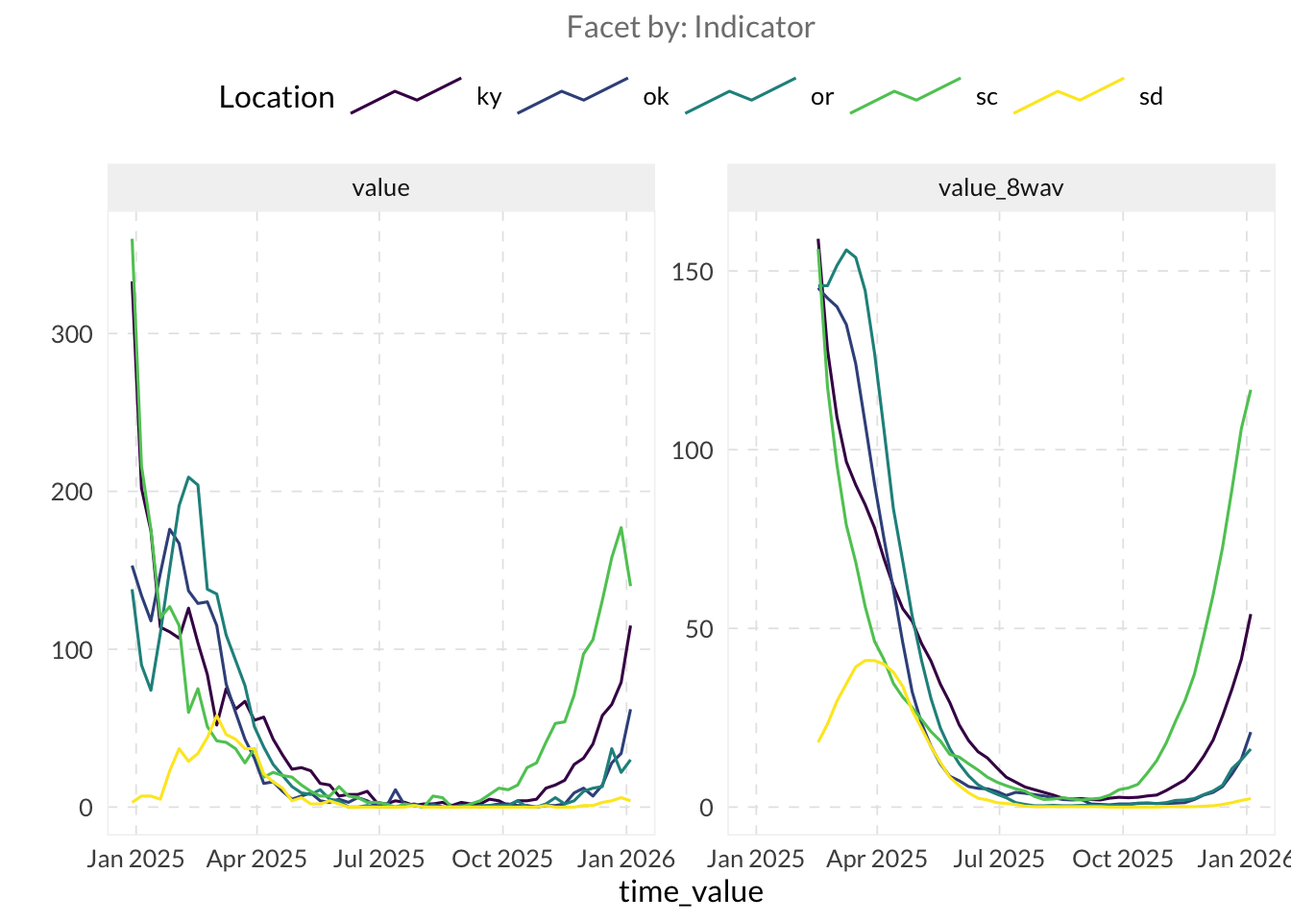
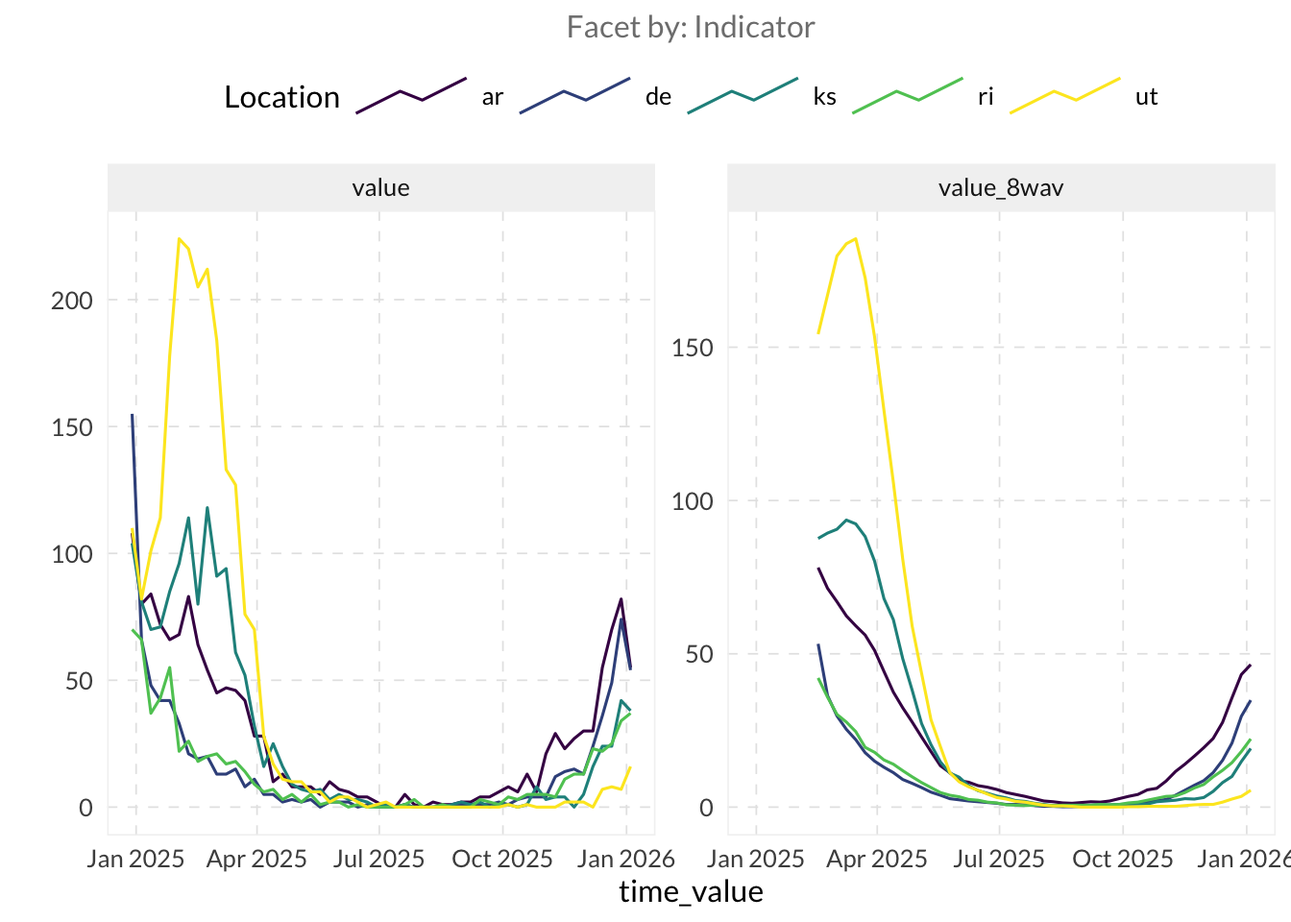
Built site for gh-pages

diff --git a/scripts/miniproject_2_solutions.html b/scripts/miniproject_2_solutions.html
@@ -257,8 +257,8 @@ pre > code.sourceCode > span > a:first-child::before { text-decoration: underlin
 * geo_type  = state
 * time_type = week
 * as_of     = 2026-04-19
-Latency (lag between last available observation and epi_df's as_of, by time series):
-* lag  = 15–23 weeks (see summary() for per-signal details)
+Latency (time between last available observation and epi_df's as_of, by time series):
+* latency  = 15–23 weeks (see summary() for per-signal details)
 
 # A tibble: 3,024 × 4
    geo_value time_value value issue     
@@ -285,11 +285,11 @@ Time range:
 * min time value              = 2024-12-29 (but some time series start later)
 * max time value              = 2026-01-04 (but some time series end earlier)
 Gaps:
-* explicit (non-lag NAs in 1/56 key combinations, affecting 1 signal)
+* missing values (NAs within the time series in 1/56 key combinations, affecting 1 signal)
 * average rows per time value = 56.00
-Latency (lag between last available time_value and epi_df's as_of, by time series):
-* value: lag 15–23 weeks (max time 2026-01-04); lagging keys: as (!)
-(!): notable latency (lag &gt; 2 weeks; lagging keys)</code></pre>
+Latency (time between last available time_value and epi_df's as_of, by time series):
+* value: latency 15–23 weeks (max time 2026-01-04); lagging keys: as (!)
+(!): notable latency (latency &gt; 2 weeks; lagging keys)</code></pre>
 </div>
 </div>
 <div class="callout callout-style-simple callout-note">
@@ -339,8 +339,8 @@ Latency (lag between last available time_value and epi_df's as_of, by time serie
 * geo_type  = state
 * time_type = week
 * as_of     = 2026-04-19
-Latency (lag between last available observation and epi_df's as_of, by time series):
-* lag across all time series = 15–28 weeks (see summary() for per-signal details)
+Latency (time between last available observation and epi_df's as_of, by time series):
+* latency across all time series = 15–28 weeks (see summary() for per-signal details)
 
 # A tibble: 3,024 × 7
    geo_value time_value value value_3wav value_8wav value_3wmean_center
@@ -402,8 +402,8 @@ Latency (lag between last available observation and epi_df's as_of, by time seri
 </div>
 <div class="code-copy-outer-scaffold"><div class="sourceCode cell-code" id="cb11"><pre class="sourceCode r code-with-copy"><code class="sourceCode r"><span id="cb11-1"><a href="#cb11-1" aria-hidden="true" tabindex="-1"></a><span class="fu">autoplot</span>(edf, value, <span class="at">.interactive =</span> <span class="cn">TRUE</span>, <span class="at">.max_keys =</span> <span class="cn">Inf</span>, <span class="at">.facet_filter =</span> geo_value <span class="sc">%in%</span> <span class="fu">c</span>(<span class="st">"ca"</span>, <span class="st">"mi"</span>, <span class="st">"ny"</span>, <span class="st">"pa"</span>))</span></code></pre></div><button title="Copy to Clipboard" class="code-copy-button"><i class="bi"></i></button></div>
 <div class="cell-output-display">
-<div class="plotly html-widget html-fill-item" id="htmlwidget-ef905eb637ec0189ee14" style="width:100%;height:464px;"></div>
-<script type="application/json" data-for="htmlwidget-ef905eb637ec0189ee14">{"x":{"data":[{"x":[20086,20093,20100,20107,20114,20121,20128,20135,20142,20149,20156,20163,20170,20177,20184,20191,20198,20205,20212,20219,20226,20233,20240,20247,20254,20261,20268,20275,20282,20289,20296,20303,20310,20317,20324,20331,20338,20345,20352,20359,20366,20373,20380,20387,20394,20401,20408,20415,20422,20429,20436,20443,20450,20457],"y":[943,810,769,748,763,723,678,624,535,440,392,348,256,208,157,99,100,68,46,38,33,24,20,16,9,6,12,10,4,20,10,10,10,12,12,10,20,21,9,18,21,26,22,43,38,71,73,96,136,150,191,278,409,407],"text":["time_value: 2024-12-29<br />.response:  943<br />.colours: ca","time_value: 2025-01-05<br />.response:  810<br />.colours: ca","time_value: 2025-01-12<br />.response:  769<br />.colours: ca","time_value: 2025-01-19<br />.response:  748<br />.colours: ca","time_value: 2025-01-26<br />.response:  763<br />.colours: ca","time_value: 2025-02-02<br />.response:  723<br />.colours: ca","time_value: 2025-02-09<br />.response:  678<br />.colours: ca","time_value: 2025-02-16<br />.response:  624<br />.colours: ca","time_value: 2025-02-23<br />.response:  535<br />.colours: ca","time_value: 2025-03-02<br />.response:  440<br />.colours: ca","time_value: 2025-03-09<br />.response:  392<br />.colours: ca","time_value: 2025-03-16<br />.response:  348<br />.colours: ca","time_value: 2025-03-23<br />.response:  256<br />.colours: ca","time_value: 2025-03-30<br />.response:  208<br />.colours: ca","time_value: 2025-04-06<br />.response:  157<br />.colours: ca","time_value: 2025-04-13<br />.response:   99<br />.colours: ca","time_value: 2025-04-20<br />.response:  100<br />.colours: ca","time_value: 2025-04-27<br />.response:   68<br />.colours: ca","time_value: 2025-05-04<br />.response:   46<br />.colours: ca","time_value: 2025-05-11<br />.response:   38<br />.colours: ca","time_value: 2025-05-18<br />.response:   33<br />.colours: ca","time_value: 2025-05-25<br />.response:   24<br />.colours: ca","time_value: 2025-06-01<br />.response:   20<br />.colours: ca","time_value: 2025-06-08<br />.response:   16<br />.colours: ca","time_value: 2025-06-15<br />.response:    9<br />.colours: ca","time_value: 2025-06-22<br />.response:    6<br />.colours: ca","time_value: 2025-06-29<br />.response:   12<br />.colours: ca","time_value: 2025-07-06<br />.response:   10<br />.colours: ca","time_value: 2025-07-13<br />.response:    4<br />.colours: ca","time_value: 2025-07-20<br />.response:   20<br />.colours: ca","time_value: 2025-07-27<br />.response:   10<br />.colours: ca","time_value: 2025-08-03<br />.response:   10<br />.colours: ca","time_value: 2025-08-10<br />.response:   10<br />.colours: ca","time_value: 2025-08-17<br />.response:   12<br />.colours: ca","time_value: 2025-08-24<br />.response:   12<br />.colours: ca","time_value: 2025-08-31<br />.response:   10<br />.colours: ca","time_value: 2025-09-07<br />.response:   20<br />.colours: ca","time_value: 2025-09-14<br />.response:   21<br />.colours: ca","time_value: 2025-09-21<br />.response:    9<br />.colours: ca","time_value: 2025-09-28<br />.response:   18<br />.colours: ca","time_value: 2025-10-05<br />.response:   21<br />.colours: ca","time_value: 2025-10-12<br />.response:   26<br />.colours: ca","time_value: 2025-10-19<br />.response:   22<br />.colours: ca","time_value: 2025-10-26<br />.response:   43<br />.colours: ca","time_value: 2025-11-02<br />.response:   38<br />.colours: ca","time_value: 2025-11-09<br />.response:   71<br />.colours: ca","time_value: 2025-11-16<br />.response:   73<br />.colours: ca","time_value: 2025-11-23<br />.response:   96<br />.colours: ca","time_value: 2025-11-30<br />.response:  136<br />.colours: ca","time_value: 2025-12-07<br />.response:  150<br />.colours: ca","time_value: 2025-12-14<br />.response:  191<br />.colours: ca","time_value: 2025-12-21<br />.response:  278<br />.colours: ca","time_value: 2025-12-28<br />.response:  409<br />.colours: ca","time_value: 2026-01-04<br />.response:  407<br />.colours: ca"],"type":"scatter","mode":"lines","line":{"width":1.8897637795275593,"color":"rgba(68,1,84,1)","dash":"solid"},"hoveron":"points","name":"ca","legendgroup":"ca","showlegend":true,"xaxis":"x","yaxis":"y","hoverinfo":"text","frame":null},{"x":[20086,20093,20100,20107,20114,20121,20128,20135,20142,20149,20156,20163,20170,20177,20184,20191,20198,20205,20212,20219,20226,20233,20240,20247,20254,20261,20268,20275,20282,20289,20296,20303,20310,20317,20324,20331,20338,20345,20352,20359,20366,20373,20380,20387,20394,20401,20408,20415,20422,20429,20436,20443,20450,20457],"y":[552,641,495,512,575,488,467,449,482,404,365,261,241,225,156,174,135,74,32,32,12,15,10,19,4,3,5,2,1,0,0,0,2,1,1,1,1,2,2,2,4,6,7,14,10,9,10,22,25,42,79,92,127,130],"text":["time_value: 2024-12-29<br />.response:  552<br />.colours: mi","time_value: 2025-01-05<br />.response:  641<br />.colours: mi","time_value: 2025-01-12<br />.response:  495<br />.colours: mi","time_value: 2025-01-19<br />.response:  512<br />.colours: mi","time_value: 2025-01-26<br />.response:  575<br />.colours: mi","time_value: 2025-02-02<br />.response:  488<br />.colours: mi","time_value: 2025-02-09<br />.response:  467<br />.colours: mi","time_value: 2025-02-16<br />.response:  449<br />.colours: mi","time_value: 2025-02-23<br />.response:  482<br />.colours: mi","time_value: 2025-03-02<br />.response:  404<br />.colours: mi","time_value: 2025-03-09<br />.response:  365<br />.colours: mi","time_value: 2025-03-16<br />.response:  261<br />.colours: mi","time_value: 2025-03-23<br />.response:  241<br />.colours: mi","time_value: 2025-03-30<br />.response:  225<br />.colours: mi","time_value: 2025-04-06<br />.response:  156<br />.colours: mi","time_value: 2025-04-13<br />.response:  174<br />.colours: mi","time_value: 2025-04-20<br />.response:  135<br />.colours: mi","time_value: 2025-04-27<br />.response:   74<br />.colours: mi","time_value: 2025-05-04<br />.response:   32<br />.colours: mi","time_value: 2025-05-11<br />.response:   32<br />.colours: mi","time_value: 2025-05-18<br />.response:   12<br />.colours: mi","time_value: 2025-05-25<br />.response:   15<br />.colours: mi","time_value: 2025-06-01<br />.response:   10<br />.colours: mi","time_value: 2025-06-08<br />.response:   19<br />.colours: mi","time_value: 2025-06-15<br />.response:    4<br />.colours: mi","time_value: 2025-06-22<br />.response:    3<br />.colours: mi","time_value: 2025-06-29<br />.response:    5<br />.colours: mi","time_value: 2025-07-06<br />.response:    2<br />.colours: mi","time_value: 2025-07-13<br />.response:    1<br />.colours: mi","time_value: 2025-07-20<br />.response:    0<br />.colours: mi","time_value: 2025-07-27<br />.response:    0<br />.colours: mi","time_value: 2025-08-03<br />.response:    0<br />.colours: mi","time_value: 2025-08-10<br />.response:    2<br />.colours: mi","time_value: 2025-08-17<br />.response:    1<br />.colours: mi","time_value: 2025-08-24<br />.response:    1<br />.colours: mi","time_value: 2025-08-31<br />.response:    1<br />.colours: mi","time_value: 2025-09-07<br />.response:    1<br />.colours: mi","time_value: 2025-09-14<br />.response:    2<br />.colours: mi","time_value: 2025-09-21<br />.response:    2<br />.colours: mi","time_value: 2025-09-28<br />.response:    2<br />.colours: mi","time_value: 2025-10-05<br />.response:    4<br />.colours: mi","time_value: 2025-10-12<br />.response:    6<br />.colours: mi","time_value: 2025-10-19<br />.response:    7<br />.colours: mi","time_value: 2025-10-26<br />.response:   14<br />.colours: mi","time_value: 2025-11-02<br />.response:   10<br />.colours: mi","time_value: 2025-11-09<br />.response:    9<br />.colours: mi","time_value: 2025-11-16<br />.response:   10<br />.colours: mi","time_value: 2025-11-23<br />.response:   22<br />.colours: mi","time_value: 2025-11-30<br />.response:   25<br />.colours: mi","time_value: 2025-12-07<br />.response:   42<br />.colours: mi","time_value: 2025-12-14<br />.response:   79<br />.colours: mi","time_value: 2025-12-21<br />.response:   92<br />.colours: mi","time_value: 2025-12-28<br />.response:  127<br />.colours: mi","time_value: 2026-01-04<br />.response:  130<br />.colours: mi"],"type":"scatter","mode":"lines","line":{"width":1.8897637795275593,"color":"rgba(49,104,142,1)","dash":"solid"},"hoveron":"points","name":"mi","legendgroup":"mi","showlegend":true,"xaxis":"x","yaxis":"y","hoverinfo":"text","frame":null},{"x":[20086,20093,20100,20107,20114,20121,20128,20135,20142,20149,20156,20163,20170,20177,20184,20191,20198,20205,20212,20219,20226,20233,20240,20247,20254,20261,20268,20275,20282,20289,20296,20303,20310,20317,20324,20331,20338,20345,20352,20359,20366,20373,20380,20387,20394,20401,20408,20415,20422,20429,20436,20443,20450,20457],"y":[1230,889,716,625,611,522,426,392,295,328,256,240,195,171,120,109,95,60,58,44,38,19,26,23,12,13,16,14,14,16,10,17,12,13,19,27,31,30,45,30,47,37,48,57,66,106,134,207,281,364,390,468,552,549],"text":["time_value: 2024-12-29<br />.response: 1230<br />.colours: ny","time_value: 2025-01-05<br />.response:  889<br />.colours: ny","time_value: 2025-01-12<br />.response:  716<br />.colours: ny","time_value: 2025-01-19<br />.response:  625<br />.colours: ny","time_value: 2025-01-26<br />.response:  611<br />.colours: ny","time_value: 2025-02-02<br />.response:  522<br />.colours: ny","time_value: 2025-02-09<br />.response:  426<br />.colours: ny","time_value: 2025-02-16<br />.response:  392<br />.colours: ny","time_value: 2025-02-23<br />.response:  295<br />.colours: ny","time_value: 2025-03-02<br />.response:  328<br />.colours: ny","time_value: 2025-03-09<br />.response:  256<br />.colours: ny","time_value: 2025-03-16<br />.response:  240<br />.colours: ny","time_value: 2025-03-23<br />.response:  195<br />.colours: ny","time_value: 2025-03-30<br />.response:  171<br />.colours: ny","time_value: 2025-04-06<br />.response:  120<br />.colours: ny","time_value: 2025-04-13<br />.response:  109<br />.colours: ny","time_value: 2025-04-20<br />.response:   95<br />.colours: ny","time_value: 2025-04-27<br />.response:   60<br />.colours: ny","time_value: 2025-05-04<br />.response:   58<br />.colours: ny","time_value: 2025-05-11<br />.response:   44<br />.colours: ny","time_value: 2025-05-18<br />.response:   38<br />.colours: ny","time_value: 2025-05-25<br />.response:   19<br />.colours: ny","time_value: 2025-06-01<br />.response:   26<br />.colours: ny","time_value: 2025-06-08<br />.response:   23<br />.colours: ny","time_value: 2025-06-15<br />.response:   12<br />.colours: ny","time_value: 2025-06-22<br />.response:   13<br />.colours: ny","time_value: 2025-06-29<br />.response:   16<br />.colours: ny","time_value: 2025-07-06<br />.response:   14<br />.colours: ny","time_value: 2025-07-13<br />.response:   14<br />.colours: ny","time_value: 2025-07-20<br />.response:   16<br />.colours: ny","time_value: 2025-07-27<br />.response:   10<br />.colours: ny","time_value: 2025-08-03<br />.response:   17<br />.colours: ny","time_value: 2025-08-10<br />.response:   12<br />.colours: ny","time_value: 2025-08-17<br />.response:   13<br />.colours: ny","time_value: 2025-08-24<br />.response:   19<br />.colours: ny","time_value: 2025-08-31<br />.response:   27<br />.colours: ny","time_value: 2025-09-07<br />.response:   31<br />.colours: ny","time_value: 2025-09-14<br />.response:   30<br />.colours: ny","time_value: 2025-09-21<br />.response:   45<br />.colours: ny","time_value: 2025-09-28<br />.response:   30<br />.colours: ny","time_value: 2025-10-05<br />.response:   47<br />.colours: ny","time_value: 2025-10-12<br />.response:   37<br />.colours: ny","time_value: 2025-10-19<br />.response:   48<br />.colours: ny","time_value: 2025-10-26<br />.response:   57<br />.colours: ny","time_value: 2025-11-02<br />.response:   66<br />.colours: ny","time_value: 2025-11-09<br />.response:  106<br />.colours: ny","time_value: 2025-11-16<br />.response:  134<br />.colours: ny","time_value: 2025-11-23<br />.response:  207<br />.colours: ny","time_value: 2025-11-30<br />.response:  281<br />.colours: ny","time_value: 2025-12-07<br />.response:  364<br />.colours: ny","time_value: 2025-12-14<br />.response:  390<br />.colours: ny","time_value: 2025-12-21<br />.response:  468<br />.colours: ny","time_value: 2025-12-28<br />.response:  552<br />.colours: ny","time_value: 2026-01-04<br />.response:  549<br />.colours: ny"],"type":"scatter","mode":"lines","line":{"width":1.8897637795275593,"color":"rgba(53,183,121,1)","dash":"solid"},"hoveron":"points","name":"ny","legendgroup":"ny","showlegend":true,"xaxis":"x","yaxis":"y","hoverinfo":"text","frame":null},{"x":[20086,20093,20100,20107,20114,20121,20128,20135,20142,20149,20156,20163,20170,20177,20184,20191,20198,20205,20212,20219,20226,20233,20240,20247,20254,20261,20268,20275,20282,20289,20296,20303,20310,20317,20324,20331,20338,20345,20352,20359,20366,20373,20380,20387,20394,20401,20408,20415,20422,20429,20436,20443,20450,20457],"y":[1301,1382,1063,940,865,760,695,596,523,523,433,451,339,257,187,169,142,105,86,77,77,134,63,42,35,41,22,38,38,34,52,33,42,35,32,36,41,33,35,51,41,48,55,48,39,100,89,141,152,230,291,388,493,429],"text":["time_value: 2024-12-29<br />.response: 1301<br />.colours: pa","time_value: 2025-01-05<br />.response: 1382<br />.colours: pa","time_value: 2025-01-12<br />.response: 1063<br />.colours: pa","time_value: 2025-01-19<br />.response:  940<br />.colours: pa","time_value: 2025-01-26<br />.response:  865<br />.colours: pa","time_value: 2025-02-02<br />.response:  760<br />.colours: pa","time_value: 2025-02-09<br />.response:  695<br />.colours: pa","time_value: 2025-02-16<br />.response:  596<br />.colours: pa","time_value: 2025-02-23<br />.response:  523<br />.colours: pa","time_value: 2025-03-02<br />.response:  523<br />.colours: pa","time_value: 2025-03-09<br />.response:  433<br />.colours: pa","time_value: 2025-03-16<br />.response:  451<br />.colours: pa","time_value: 2025-03-23<br />.response:  339<br />.colours: pa","time_value: 2025-03-30<br />.response:  257<br />.colours: pa","time_value: 2025-04-06<br />.response:  187<br />.colours: pa","time_value: 2025-04-13<br />.response:  169<br />.colours: pa","time_value: 2025-04-20<br />.response:  142<br />.colours: pa","time_value: 2025-04-27<br />.response:  105<br />.colours: pa","time_value: 2025-05-04<br />.response:   86<br />.colours: pa","time_value: 2025-05-11<br />.response:   77<br />.colours: pa","time_value: 2025-05-18<br />.response:   77<br />.colours: pa","time_value: 2025-05-25<br />.response:  134<br />.colours: pa","time_value: 2025-06-01<br />.response:   63<br />.colours: pa","time_value: 2025-06-08<br />.response:   42<br />.colours: pa","time_value: 2025-06-15<br />.response:   35<br />.colours: pa","time_value: 2025-06-22<br />.response:   41<br />.colours: pa","time_value: 2025-06-29<br />.response:   22<br />.colours: pa","time_value: 2025-07-06<br />.response:   38<br />.colours: pa","time_value: 2025-07-13<br />.response:   38<br />.colours: pa","time_value: 2025-07-20<br />.response:   34<br />.colours: pa","time_value: 2025-07-27<br />.response:   52<br />.colours: pa","time_value: 2025-08-03<br />.response:   33<br />.colours: pa","time_value: 2025-08-10<br />.response:   42<br />.colours: pa","time_value: 2025-08-17<br />.response:   35<br />.colours: pa","time_value: 2025-08-24<br />.response:   32<br />.colours: pa","time_value: 2025-08-31<br />.response:   36<br />.colours: pa","time_value: 2025-09-07<br />.response:   41<br />.colours: pa","time_value: 2025-09-14<br />.response:   33<br />.colours: pa","time_value: 2025-09-21<br />.response:   35<br />.colours: pa","time_value: 2025-09-28<br />.response:   51<br />.colours: pa","time_value: 2025-10-05<br />.response:   41<br />.colours: pa","time_value: 2025-10-12<br />.response:   48<br />.colours: pa","time_value: 2025-10-19<br />.response:   55<br />.colours: pa","time_value: 2025-10-26<br />.response:   48<br />.colours: pa","time_value: 2025-11-02<br />.response:   39<br />.colours: pa","time_value: 2025-11-09<br />.response:  100<br />.colours: pa","time_value: 2025-11-16<br />.response:   89<br />.colours: pa","time_value: 2025-11-23<br />.response:  141<br />.colours: pa","time_value: 2025-11-30<br />.response:  152<br />.colours: pa","time_value: 2025-12-07<br />.response:  230<br />.colours: pa","time_value: 2025-12-14<br />.response:  291<br />.colours: pa","time_value: 2025-12-21<br />.response:  388<br />.colours: pa","time_value: 2025-12-28<br />.response:  493<br />.colours: pa","time_value: 2026-01-04<br />.response:  429<br />.colours: pa"],"type":"scatter","mode":"lines","line":{"width":1.8897637795275593,"color":"rgba(253,231,37,1)","dash":"solid"},"hoveron":"points","name":"pa","legendgroup":"pa","showlegend":true,"xaxis":"x","yaxis":"y","hoverinfo":"text","frame":null}],"layout":{"margin":{"t":23.970112079701121,"r":7.9701120797011216,"b":40.647571606475722,"l":37.459526774595282},"paper_bgcolor":"rgba(255,255,255,1)","font":{"color":"rgba(0,0,0,1)","family":"Lato","size":15.940224159402241},"xaxis":{"domain":[0,1],"automargin":true,"type":"linear","autorange":false,"range":[20067.450000000001,20475.549999999999],"tickmode":"array","ticktext":["Jan 2025","Apr 2025","Jul 2025","Oct 2025","Jan 2026"],"tickvals":[20089,20179,20270,20362,20454],"categoryorder":"array","categoryarray":["Jan 2025","Apr 2025","Jul 2025","Oct 2025","Jan 2026"],"nticks":null,"ticks":"","tickcolor":null,"ticklen":3.9850560398505603,"tickwidth":0,"showticklabels":true,"tickfont":{"color":"rgba(77,77,77,1)","family":"Lato","size":12.7521793275218},"tickangle":-0,"showline":false,"linecolor":null,"linewidth":0,"showgrid":true,"gridcolor":"rgba(229,229,229,1)","gridwidth":0.39850560398505613,"zeroline":false,"anchor":"y","title":{"text":"time_value","font":{"color":"rgba(0,0,0,1)","family":"Lato","size":15.940224159402241}},"hoverformat":".2f"},"yaxis":{"domain":[0,1],"automargin":true,"type":"linear","autorange":false,"range":[-69.100000000000009,1451.0999999999999],"tickmode":"array","ticktext":["0","500","1000"],"tickvals":[0,500,999.99999999999989],"categoryorder":"array","categoryarray":["0","500","1000"],"nticks":null,"ticks":"","tickcolor":null,"ticklen":3.9850560398505608,"tickwidth":0,"showticklabels":true,"tickfont":{"color":"rgba(77,77,77,1)","family":"Lato","size":12.7521793275218},"tickangle":-0,"showline":false,"linecolor":null,"linewidth":0,"showgrid":true,"gridcolor":"rgba(229,229,229,1)","gridwidth":0.39850560398505613,"zeroline":false,"anchor":"x","title":{"text":"","font":{"color":"rgba(0,0,0,1)","family":"Lato","size":15.940224159402241}},"hoverformat":".2f","fixedrange":true},"shapes":[{"type":"rect","fillcolor":"transparent","line":{"color":"rgba(242,242,242,1)","width":0.72455564360919289,"linetype":"solid"},"yref":"paper","xref":"paper","layer":"below","x0":0,"x1":1,"y0":0,"y1":1}],"showlegend":true,"legend":{"bgcolor":null,"bordercolor":null,"borderwidth":0,"font":{"color":"rgba(0,0,0,1)","family":"Lato","size":12.7521793275218},"orientation":"h","x":0.5,"y":1.02,"xanchor":"center","yanchor":"bottom","title":{"text":"Location","font":{"color":"rgba(0,0,0,1)","family":"Lato","size":15.940224159402241}}},"hovermode":"closest","barmode":"relative"},"config":{"doubleClick":"reset","modeBarButtonsToAdd":["hoverclosest","hovercompare"],"showSendToCloud":false,"modeBarButtonsToRemove":["zoomIn2d","zoomOut2d"]},"source":"A","attrs":{"80565e33b157":{"x":{},"y":{},"colour":{},"type":"scatter"}},"cur_data":"80565e33b157","visdat":{"80565e33b157":["function (y) ","x"]},"highlight":{"on":"plotly_click","persistent":false,"dynamic":false,"selectize":false,"opacityDim":0.20000000000000001,"selected":{"opacity":1},"debounce":0},"shinyEvents":["plotly_hover","plotly_click","plotly_selected","plotly_relayout","plotly_brushed","plotly_brushing","plotly_clickannotation","plotly_doubleclick","plotly_deselect","plotly_afterplot","plotly_sunburstclick"],"base_url":"https://plot.ly"},"evals":[],"jsHooks":[]}</script>
+<div class="plotly html-widget html-fill-item" id="htmlwidget-8643a432b75bf0650cb9" style="width:100%;height:464px;"></div>
+<script type="application/json" data-for="htmlwidget-8643a432b75bf0650cb9">{"x":{"data":[{"x":[20086,20093,20100,20107,20114,20121,20128,20135,20142,20149,20156,20163,20170,20177,20184,20191,20198,20205,20212,20219,20226,20233,20240,20247,20254,20261,20268,20275,20282,20289,20296,20303,20310,20317,20324,20331,20338,20345,20352,20359,20366,20373,20380,20387,20394,20401,20408,20415,20422,20429,20436,20443,20450,20457],"y":[943,810,769,748,763,723,678,624,535,440,392,348,256,208,157,99,100,68,46,38,33,24,20,16,9,6,12,10,4,20,10,10,10,12,12,10,20,21,9,18,21,26,22,43,38,71,73,96,136,150,191,278,409,407],"text":["time_value: 2024-12-29<br />.response:  943<br />.colours: ca","time_value: 2025-01-05<br />.response:  810<br />.colours: ca","time_value: 2025-01-12<br />.response:  769<br />.colours: ca","time_value: 2025-01-19<br />.response:  748<br />.colours: ca","time_value: 2025-01-26<br />.response:  763<br />.colours: ca","time_value: 2025-02-02<br />.response:  723<br />.colours: ca","time_value: 2025-02-09<br />.response:  678<br />.colours: ca","time_value: 2025-02-16<br />.response:  624<br />.colours: ca","time_value: 2025-02-23<br />.response:  535<br />.colours: ca","time_value: 2025-03-02<br />.response:  440<br />.colours: ca","time_value: 2025-03-09<br />.response:  392<br />.colours: ca","time_value: 2025-03-16<br />.response:  348<br />.colours: ca","time_value: 2025-03-23<br />.response:  256<br />.colours: ca","time_value: 2025-03-30<br />.response:  208<br />.colours: ca","time_value: 2025-04-06<br />.response:  157<br />.colours: ca","time_value: 2025-04-13<br />.response:   99<br />.colours: ca","time_value: 2025-04-20<br />.response:  100<br />.colours: ca","time_value: 2025-04-27<br />.response:   68<br />.colours: ca","time_value: 2025-05-04<br />.response:   46<br />.colours: ca","time_value: 2025-05-11<br />.response:   38<br />.colours: ca","time_value: 2025-05-18<br />.response:   33<br />.colours: ca","time_value: 2025-05-25<br />.response:   24<br />.colours: ca","time_value: 2025-06-01<br />.response:   20<br />.colours: ca","time_value: 2025-06-08<br />.response:   16<br />.colours: ca","time_value: 2025-06-15<br />.response:    9<br />.colours: ca","time_value: 2025-06-22<br />.response:    6<br />.colours: ca","time_value: 2025-06-29<br />.response:   12<br />.colours: ca","time_value: 2025-07-06<br />.response:   10<br />.colours: ca","time_value: 2025-07-13<br />.response:    4<br />.colours: ca","time_value: 2025-07-20<br />.response:   20<br />.colours: ca","time_value: 2025-07-27<br />.response:   10<br />.colours: ca","time_value: 2025-08-03<br />.response:   10<br />.colours: ca","time_value: 2025-08-10<br />.response:   10<br />.colours: ca","time_value: 2025-08-17<br />.response:   12<br />.colours: ca","time_value: 2025-08-24<br />.response:   12<br />.colours: ca","time_value: 2025-08-31<br />.response:   10<br />.colours: ca","time_value: 2025-09-07<br />.response:   20<br />.colours: ca","time_value: 2025-09-14<br />.response:   21<br />.colours: ca","time_value: 2025-09-21<br />.response:    9<br />.colours: ca","time_value: 2025-09-28<br />.response:   18<br />.colours: ca","time_value: 2025-10-05<br />.response:   21<br />.colours: ca","time_value: 2025-10-12<br />.response:   26<br />.colours: ca","time_value: 2025-10-19<br />.response:   22<br />.colours: ca","time_value: 2025-10-26<br />.response:   43<br />.colours: ca","time_value: 2025-11-02<br />.response:   38<br />.colours: ca","time_value: 2025-11-09<br />.response:   71<br />.colours: ca","time_value: 2025-11-16<br />.response:   73<br />.colours: ca","time_value: 2025-11-23<br />.response:   96<br />.colours: ca","time_value: 2025-11-30<br />.response:  136<br />.colours: ca","time_value: 2025-12-07<br />.response:  150<br />.colours: ca","time_value: 2025-12-14<br />.response:  191<br />.colours: ca","time_value: 2025-12-21<br />.response:  278<br />.colours: ca","time_value: 2025-12-28<br />.response:  409<br />.colours: ca","time_value: 2026-01-04<br />.response:  407<br />.colours: ca"],"type":"scatter","mode":"lines","line":{"width":1.8897637795275593,"color":"rgba(68,1,84,1)","dash":"solid"},"hoveron":"points","name":"ca","legendgroup":"ca","showlegend":true,"xaxis":"x","yaxis":"y","hoverinfo":"text","frame":null},{"x":[20086,20093,20100,20107,20114,20121,20128,20135,20142,20149,20156,20163,20170,20177,20184,20191,20198,20205,20212,20219,20226,20233,20240,20247,20254,20261,20268,20275,20282,20289,20296,20303,20310,20317,20324,20331,20338,20345,20352,20359,20366,20373,20380,20387,20394,20401,20408,20415,20422,20429,20436,20443,20450,20457],"y":[552,641,495,512,575,488,467,449,482,404,365,261,241,225,156,174,135,74,32,32,12,15,10,19,4,3,5,2,1,0,0,0,2,1,1,1,1,2,2,2,4,6,7,14,10,9,10,22,25,42,79,92,127,130],"text":["time_value: 2024-12-29<br />.response:  552<br />.colours: mi","time_value: 2025-01-05<br />.response:  641<br />.colours: mi","time_value: 2025-01-12<br />.response:  495<br />.colours: mi","time_value: 2025-01-19<br />.response:  512<br />.colours: mi","time_value: 2025-01-26<br />.response:  575<br />.colours: mi","time_value: 2025-02-02<br />.response:  488<br />.colours: mi","time_value: 2025-02-09<br />.response:  467<br />.colours: mi","time_value: 2025-02-16<br />.response:  449<br />.colours: mi","time_value: 2025-02-23<br />.response:  482<br />.colours: mi","time_value: 2025-03-02<br />.response:  404<br />.colours: mi","time_value: 2025-03-09<br />.response:  365<br />.colours: mi","time_value: 2025-03-16<br />.response:  261<br />.colours: mi","time_value: 2025-03-23<br />.response:  241<br />.colours: mi","time_value: 2025-03-30<br />.response:  225<br />.colours: mi","time_value: 2025-04-06<br />.response:  156<br />.colours: mi","time_value: 2025-04-13<br />.response:  174<br />.colours: mi","time_value: 2025-04-20<br />.response:  135<br />.colours: mi","time_value: 2025-04-27<br />.response:   74<br />.colours: mi","time_value: 2025-05-04<br />.response:   32<br />.colours: mi","time_value: 2025-05-11<br />.response:   32<br />.colours: mi","time_value: 2025-05-18<br />.response:   12<br />.colours: mi","time_value: 2025-05-25<br />.response:   15<br />.colours: mi","time_value: 2025-06-01<br />.response:   10<br />.colours: mi","time_value: 2025-06-08<br />.response:   19<br />.colours: mi","time_value: 2025-06-15<br />.response:    4<br />.colours: mi","time_value: 2025-06-22<br />.response:    3<br />.colours: mi","time_value: 2025-06-29<br />.response:    5<br />.colours: mi","time_value: 2025-07-06<br />.response:    2<br />.colours: mi","time_value: 2025-07-13<br />.response:    1<br />.colours: mi","time_value: 2025-07-20<br />.response:    0<br />.colours: mi","time_value: 2025-07-27<br />.response:    0<br />.colours: mi","time_value: 2025-08-03<br />.response:    0<br />.colours: mi","time_value: 2025-08-10<br />.response:    2<br />.colours: mi","time_value: 2025-08-17<br />.response:    1<br />.colours: mi","time_value: 2025-08-24<br />.response:    1<br />.colours: mi","time_value: 2025-08-31<br />.response:    1<br />.colours: mi","time_value: 2025-09-07<br />.response:    1<br />.colours: mi","time_value: 2025-09-14<br />.response:    2<br />.colours: mi","time_value: 2025-09-21<br />.response:    2<br />.colours: mi","time_value: 2025-09-28<br />.response:    2<br />.colours: mi","time_value: 2025-10-05<br />.response:    4<br />.colours: mi","time_value: 2025-10-12<br />.response:    6<br />.colours: mi","time_value: 2025-10-19<br />.response:    7<br />.colours: mi","time_value: 2025-10-26<br />.response:   14<br />.colours: mi","time_value: 2025-11-02<br />.response:   10<br />.colours: mi","time_value: 2025-11-09<br />.response:    9<br />.colours: mi","time_value: 2025-11-16<br />.response:   10<br />.colours: mi","time_value: 2025-11-23<br />.response:   22<br />.colours: mi","time_value: 2025-11-30<br />.response:   25<br />.colours: mi","time_value: 2025-12-07<br />.response:   42<br />.colours: mi","time_value: 2025-12-14<br />.response:   79<br />.colours: mi","time_value: 2025-12-21<br />.response:   92<br />.colours: mi","time_value: 2025-12-28<br />.response:  127<br />.colours: mi","time_value: 2026-01-04<br />.response:  130<br />.colours: mi"],"type":"scatter","mode":"lines","line":{"width":1.8897637795275593,"color":"rgba(49,104,142,1)","dash":"solid"},"hoveron":"points","name":"mi","legendgroup":"mi","showlegend":true,"xaxis":"x","yaxis":"y","hoverinfo":"text","frame":null},{"x":[20086,20093,20100,20107,20114,20121,20128,20135,20142,20149,20156,20163,20170,20177,20184,20191,20198,20205,20212,20219,20226,20233,20240,20247,20254,20261,20268,20275,20282,20289,20296,20303,20310,20317,20324,20331,20338,20345,20352,20359,20366,20373,20380,20387,20394,20401,20408,20415,20422,20429,20436,20443,20450,20457],"y":[1230,889,716,625,611,522,426,392,295,328,256,240,195,171,120,109,95,60,58,44,38,19,26,23,12,13,16,14,14,16,10,17,12,13,19,27,31,30,45,30,47,37,48,57,66,106,134,207,281,364,390,468,552,549],"text":["time_value: 2024-12-29<br />.response: 1230<br />.colours: ny","time_value: 2025-01-05<br />.response:  889<br />.colours: ny","time_value: 2025-01-12<br />.response:  716<br />.colours: ny","time_value: 2025-01-19<br />.response:  625<br />.colours: ny","time_value: 2025-01-26<br />.response:  611<br />.colours: ny","time_value: 2025-02-02<br />.response:  522<br />.colours: ny","time_value: 2025-02-09<br />.response:  426<br />.colours: ny","time_value: 2025-02-16<br />.response:  392<br />.colours: ny","time_value: 2025-02-23<br />.response:  295<br />.colours: ny","time_value: 2025-03-02<br />.response:  328<br />.colours: ny","time_value: 2025-03-09<br />.response:  256<br />.colours: ny","time_value: 2025-03-16<br />.response:  240<br />.colours: ny","time_value: 2025-03-23<br />.response:  195<br />.colours: ny","time_value: 2025-03-30<br />.response:  171<br />.colours: ny","time_value: 2025-04-06<br />.response:  120<br />.colours: ny","time_value: 2025-04-13<br />.response:  109<br />.colours: ny","time_value: 2025-04-20<br />.response:   95<br />.colours: ny","time_value: 2025-04-27<br />.response:   60<br />.colours: ny","time_value: 2025-05-04<br />.response:   58<br />.colours: ny","time_value: 2025-05-11<br />.response:   44<br />.colours: ny","time_value: 2025-05-18<br />.response:   38<br />.colours: ny","time_value: 2025-05-25<br />.response:   19<br />.colours: ny","time_value: 2025-06-01<br />.response:   26<br />.colours: ny","time_value: 2025-06-08<br />.response:   23<br />.colours: ny","time_value: 2025-06-15<br />.response:   12<br />.colours: ny","time_value: 2025-06-22<br />.response:   13<br />.colours: ny","time_value: 2025-06-29<br />.response:   16<br />.colours: ny","time_value: 2025-07-06<br />.response:   14<br />.colours: ny","time_value: 2025-07-13<br />.response:   14<br />.colours: ny","time_value: 2025-07-20<br />.response:   16<br />.colours: ny","time_value: 2025-07-27<br />.response:   10<br />.colours: ny","time_value: 2025-08-03<br />.response:   17<br />.colours: ny","time_value: 2025-08-10<br />.response:   12<br />.colours: ny","time_value: 2025-08-17<br />.response:   13<br />.colours: ny","time_value: 2025-08-24<br />.response:   19<br />.colours: ny","time_value: 2025-08-31<br />.response:   27<br />.colours: ny","time_value: 2025-09-07<br />.response:   31<br />.colours: ny","time_value: 2025-09-14<br />.response:   30<br />.colours: ny","time_value: 2025-09-21<br />.response:   45<br />.colours: ny","time_value: 2025-09-28<br />.response:   30<br />.colours: ny","time_value: 2025-10-05<br />.response:   47<br />.colours: ny","time_value: 2025-10-12<br />.response:   37<br />.colours: ny","time_value: 2025-10-19<br />.response:   48<br />.colours: ny","time_value: 2025-10-26<br />.response:   57<br />.colours: ny","time_value: 2025-11-02<br />.response:   66<br />.colours: ny","time_value: 2025-11-09<br />.response:  106<br />.colours: ny","time_value: 2025-11-16<br />.response:  134<br />.colours: ny","time_value: 2025-11-23<br />.response:  207<br />.colours: ny","time_value: 2025-11-30<br />.response:  281<br />.colours: ny","time_value: 2025-12-07<br />.response:  364<br />.colours: ny","time_value: 2025-12-14<br />.response:  390<br />.colours: ny","time_value: 2025-12-21<br />.response:  468<br />.colours: ny","time_value: 2025-12-28<br />.response:  552<br />.colours: ny","time_value: 2026-01-04<br />.response:  549<br />.colours: ny"],"type":"scatter","mode":"lines","line":{"width":1.8897637795275593,"color":"rgba(53,183,121,1)","dash":"solid"},"hoveron":"points","name":"ny","legendgroup":"ny","showlegend":true,"xaxis":"x","yaxis":"y","hoverinfo":"text","frame":null},{"x":[20086,20093,20100,20107,20114,20121,20128,20135,20142,20149,20156,20163,20170,20177,20184,20191,20198,20205,20212,20219,20226,20233,20240,20247,20254,20261,20268,20275,20282,20289,20296,20303,20310,20317,20324,20331,20338,20345,20352,20359,20366,20373,20380,20387,20394,20401,20408,20415,20422,20429,20436,20443,20450,20457],"y":[1301,1382,1063,940,865,760,695,596,523,523,433,451,339,257,187,169,142,105,86,77,77,134,63,42,35,41,22,38,38,34,52,33,42,35,32,36,41,33,35,51,41,48,55,48,39,100,89,141,152,230,291,388,493,429],"text":["time_value: 2024-12-29<br />.response: 1301<br />.colours: pa","time_value: 2025-01-05<br />.response: 1382<br />.colours: pa","time_value: 2025-01-12<br />.response: 1063<br />.colours: pa","time_value: 2025-01-19<br />.response:  940<br />.colours: pa","time_value: 2025-01-26<br />.response:  865<br />.colours: pa","time_value: 2025-02-02<br />.response:  760<br />.colours: pa","time_value: 2025-02-09<br />.response:  695<br />.colours: pa","time_value: 2025-02-16<br />.response:  596<br />.colours: pa","time_value: 2025-02-23<br />.response:  523<br />.colours: pa","time_value: 2025-03-02<br />.response:  523<br />.colours: pa","time_value: 2025-03-09<br />.response:  433<br />.colours: pa","time_value: 2025-03-16<br />.response:  451<br />.colours: pa","time_value: 2025-03-23<br />.response:  339<br />.colours: pa","time_value: 2025-03-30<br />.response:  257<br />.colours: pa","time_value: 2025-04-06<br />.response:  187<br />.colours: pa","time_value: 2025-04-13<br />.response:  169<br />.colours: pa","time_value: 2025-04-20<br />.response:  142<br />.colours: pa","time_value: 2025-04-27<br />.response:  105<br />.colours: pa","time_value: 2025-05-04<br />.response:   86<br />.colours: pa","time_value: 2025-05-11<br />.response:   77<br />.colours: pa","time_value: 2025-05-18<br />.response:   77<br />.colours: pa","time_value: 2025-05-25<br />.response:  134<br />.colours: pa","time_value: 2025-06-01<br />.response:   63<br />.colours: pa","time_value: 2025-06-08<br />.response:   42<br />.colours: pa","time_value: 2025-06-15<br />.response:   35<br />.colours: pa","time_value: 2025-06-22<br />.response:   41<br />.colours: pa","time_value: 2025-06-29<br />.response:   22<br />.colours: pa","time_value: 2025-07-06<br />.response:   38<br />.colours: pa","time_value: 2025-07-13<br />.response:   38<br />.colours: pa","time_value: 2025-07-20<br />.response:   34<br />.colours: pa","time_value: 2025-07-27<br />.response:   52<br />.colours: pa","time_value: 2025-08-03<br />.response:   33<br />.colours: pa","time_value: 2025-08-10<br />.response:   42<br />.colours: pa","time_value: 2025-08-17<br />.response:   35<br />.colours: pa","time_value: 2025-08-24<br />.response:   32<br />.colours: pa","time_value: 2025-08-31<br />.response:   36<br />.colours: pa","time_value: 2025-09-07<br />.response:   41<br />.colours: pa","time_value: 2025-09-14<br />.response:   33<br />.colours: pa","time_value: 2025-09-21<br />.response:   35<br />.colours: pa","time_value: 2025-09-28<br />.response:   51<br />.colours: pa","time_value: 2025-10-05<br />.response:   41<br />.colours: pa","time_value: 2025-10-12<br />.response:   48<br />.colours: pa","time_value: 2025-10-19<br />.response:   55<br />.colours: pa","time_value: 2025-10-26<br />.response:   48<br />.colours: pa","time_value: 2025-11-02<br />.response:   39<br />.colours: pa","time_value: 2025-11-09<br />.response:  100<br />.colours: pa","time_value: 2025-11-16<br />.response:   89<br />.colours: pa","time_value: 2025-11-23<br />.response:  141<br />.colours: pa","time_value: 2025-11-30<br />.response:  152<br />.colours: pa","time_value: 2025-12-07<br />.response:  230<br />.colours: pa","time_value: 2025-12-14<br />.response:  291<br />.colours: pa","time_value: 2025-12-21<br />.response:  388<br />.colours: pa","time_value: 2025-12-28<br />.response:  493<br />.colours: pa","time_value: 2026-01-04<br />.response:  429<br />.colours: pa"],"type":"scatter","mode":"lines","line":{"width":1.8897637795275593,"color":"rgba(253,231,37,1)","dash":"solid"},"hoveron":"points","name":"pa","legendgroup":"pa","showlegend":true,"xaxis":"x","yaxis":"y","hoverinfo":"text","frame":null}],"layout":{"margin":{"t":23.970112079701121,"r":7.9701120797011216,"b":40.647571606475722,"l":37.459526774595282},"paper_bgcolor":"rgba(255,255,255,1)","font":{"color":"rgba(0,0,0,1)","family":"Lato","size":15.940224159402241},"xaxis":{"domain":[0,1],"automargin":true,"type":"linear","autorange":false,"range":[20067.450000000001,20475.549999999999],"tickmode":"array","ticktext":["Jan 2025","Apr 2025","Jul 2025","Oct 2025","Jan 2026"],"tickvals":[20089,20179,20270,20362,20454],"categoryorder":"array","categoryarray":["Jan 2025","Apr 2025","Jul 2025","Oct 2025","Jan 2026"],"nticks":null,"ticks":"","tickcolor":null,"ticklen":3.9850560398505603,"tickwidth":0,"showticklabels":true,"tickfont":{"color":"rgba(77,77,77,1)","family":"Lato","size":12.7521793275218},"tickangle":-0,"showline":false,"linecolor":null,"linewidth":0,"showgrid":true,"gridcolor":"rgba(229,229,229,1)","gridwidth":0.39850560398505613,"zeroline":false,"anchor":"y","title":{"text":"time_value","font":{"color":"rgba(0,0,0,1)","family":"Lato","size":15.940224159402241}},"hoverformat":".2f"},"yaxis":{"domain":[0,1],"automargin":true,"type":"linear","autorange":false,"range":[-69.100000000000009,1451.0999999999999],"tickmode":"array","ticktext":["0","500","1000"],"tickvals":[0,500,999.99999999999989],"categoryorder":"array","categoryarray":["0","500","1000"],"nticks":null,"ticks":"","tickcolor":null,"ticklen":3.9850560398505608,"tickwidth":0,"showticklabels":true,"tickfont":{"color":"rgba(77,77,77,1)","family":"Lato","size":12.7521793275218},"tickangle":-0,"showline":false,"linecolor":null,"linewidth":0,"showgrid":true,"gridcolor":"rgba(229,229,229,1)","gridwidth":0.39850560398505613,"zeroline":false,"anchor":"x","title":{"text":"","font":{"color":"rgba(0,0,0,1)","family":"Lato","size":15.940224159402241}},"hoverformat":".2f","fixedrange":true},"shapes":[{"type":"rect","fillcolor":"transparent","line":{"color":"rgba(242,242,242,1)","width":0.72455564360919289,"linetype":"solid"},"yref":"paper","xref":"paper","layer":"below","x0":0,"x1":1,"y0":0,"y1":1}],"showlegend":true,"legend":{"bgcolor":null,"bordercolor":null,"borderwidth":0,"font":{"color":"rgba(0,0,0,1)","family":"Lato","size":12.7521793275218},"orientation":"h","x":0.5,"y":1.02,"xanchor":"center","yanchor":"bottom","title":{"text":"Location","font":{"color":"rgba(0,0,0,1)","family":"Lato","size":15.940224159402241}}},"hovermode":"closest","barmode":"relative"},"config":{"doubleClick":"reset","modeBarButtonsToAdd":["hoverclosest","hovercompare"],"showSendToCloud":false,"modeBarButtonsToRemove":["zoomIn2d","zoomOut2d"]},"source":"A","attrs":{"99d26d83fbfd":{"x":{},"y":{},"colour":{},"type":"scatter"}},"cur_data":"99d26d83fbfd","visdat":{"99d26d83fbfd":["function (y) ","x"]},"highlight":{"on":"plotly_click","persistent":false,"dynamic":false,"selectize":false,"opacityDim":0.20000000000000001,"selected":{"opacity":1},"debounce":0},"shinyEvents":["plotly_hover","plotly_click","plotly_selected","plotly_relayout","plotly_brushed","plotly_brushing","plotly_clickannotation","plotly_doubleclick","plotly_deselect","plotly_afterplot","plotly_sunburstclick"],"base_url":"https://plot.ly"},"evals":[],"jsHooks":[]}</script>
 </div>
 <div class="code-copy-outer-scaffold"><div class="sourceCode cell-code" id="cb12"><pre class="sourceCode r code-with-copy"><code class="sourceCode r"><span id="cb12-1"><a href="#cb12-1" aria-hidden="true" tabindex="-1"></a><span class="fu">plot_heatmap</span>(edf, value) <span class="sc">+</span></span>
 <span id="cb12-2"><a href="#cb12-2" aria-hidden="true" tabindex="-1"></a>  <span class="fu">coord_cartesian</span>(<span class="at">xlim =</span> <span class="fu">as.Date</span>(<span class="fu">c</span>(<span class="st">"2025-06-01"</span>, <span class="st">"2026-01-01"</span>)))</span></code></pre></div><button title="Copy to Clipboard" class="code-copy-button"><i class="bi"></i></button></div>
@@ -530,9 +530,9 @@ Latency (lag between last available observation and epi_df's as_of, by time seri
 <pre><code>An `epi_df` object, 16,896 x 4 with metadata:
 * geo_type  = state
 * time_type = week
-* as_of     = 2026-04-27 10:51:10.848509
-Latency (lag between last available observation and epi_df's as_of, by time series):
-* lag across all time series = 3–50 weeks (see summary() for per-signal details)
+* as_of     = 2026-04-27 11:11:18.554953
+Latency (time between last available observation and epi_df's as_of, by time series):
+* latency across all time series = 3–50 weeks (see summary() for per-signal details)
 * Empty time series detected
 # A tibble: 16,896 × 4
    geo_value time_value flu_death_rate  wili

diff --git a/scripts/miniproject_1_solutions.html b/scripts/miniproject_1_solutions.html
@@ -245,8 +245,8 @@ pre > code.sourceCode > span > a:first-child::before { text-decoration: underlin
 * time_type = day
 * other_keys = signal
 * as_of     = 2022-05-11
-Latency (lag between last available observation and epi_df's as_of, by time series):
-* lag  = 71 days
+Latency (time between last available observation and epi_df's as_of, by time series):
+* latency  = 71 days
 * Empty time series detected
 # A tibble: 240 × 15
    geo_value signal    time_value source geo_type time_type direction issue     
